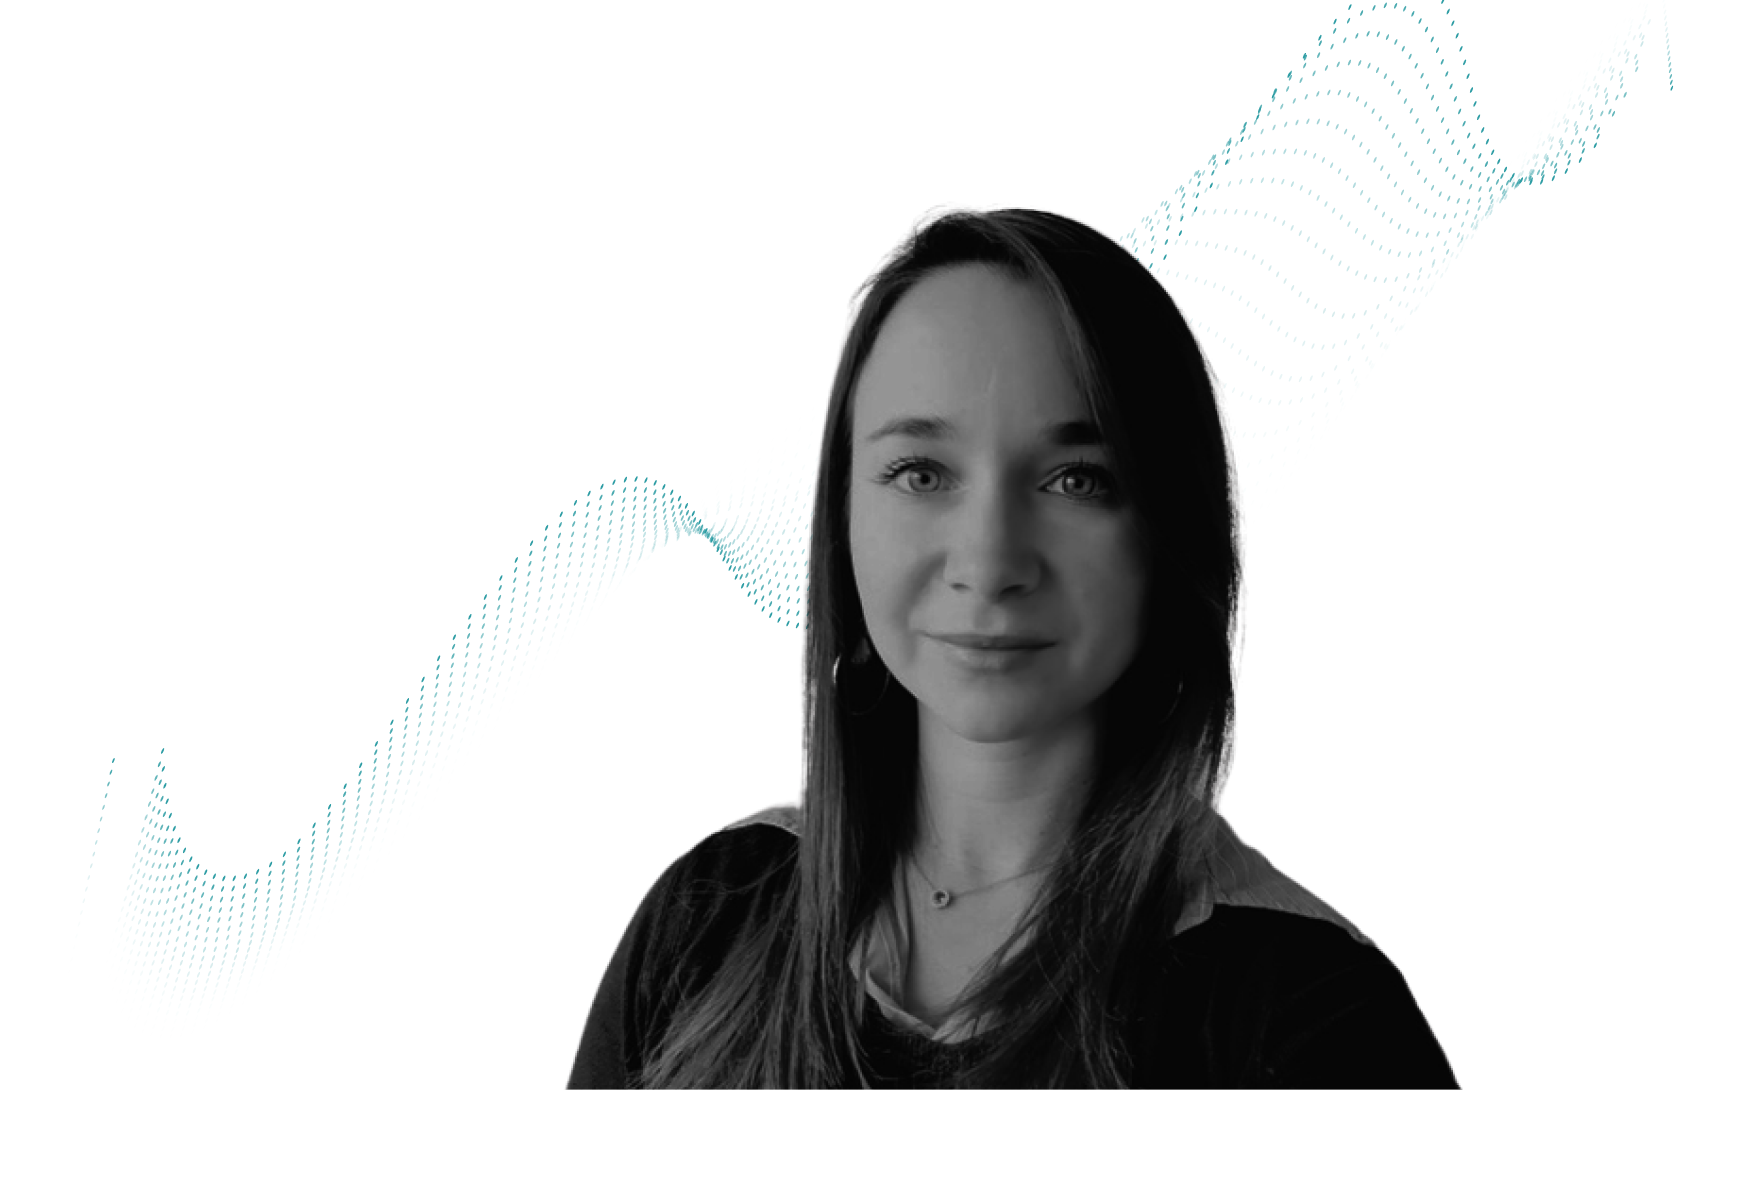
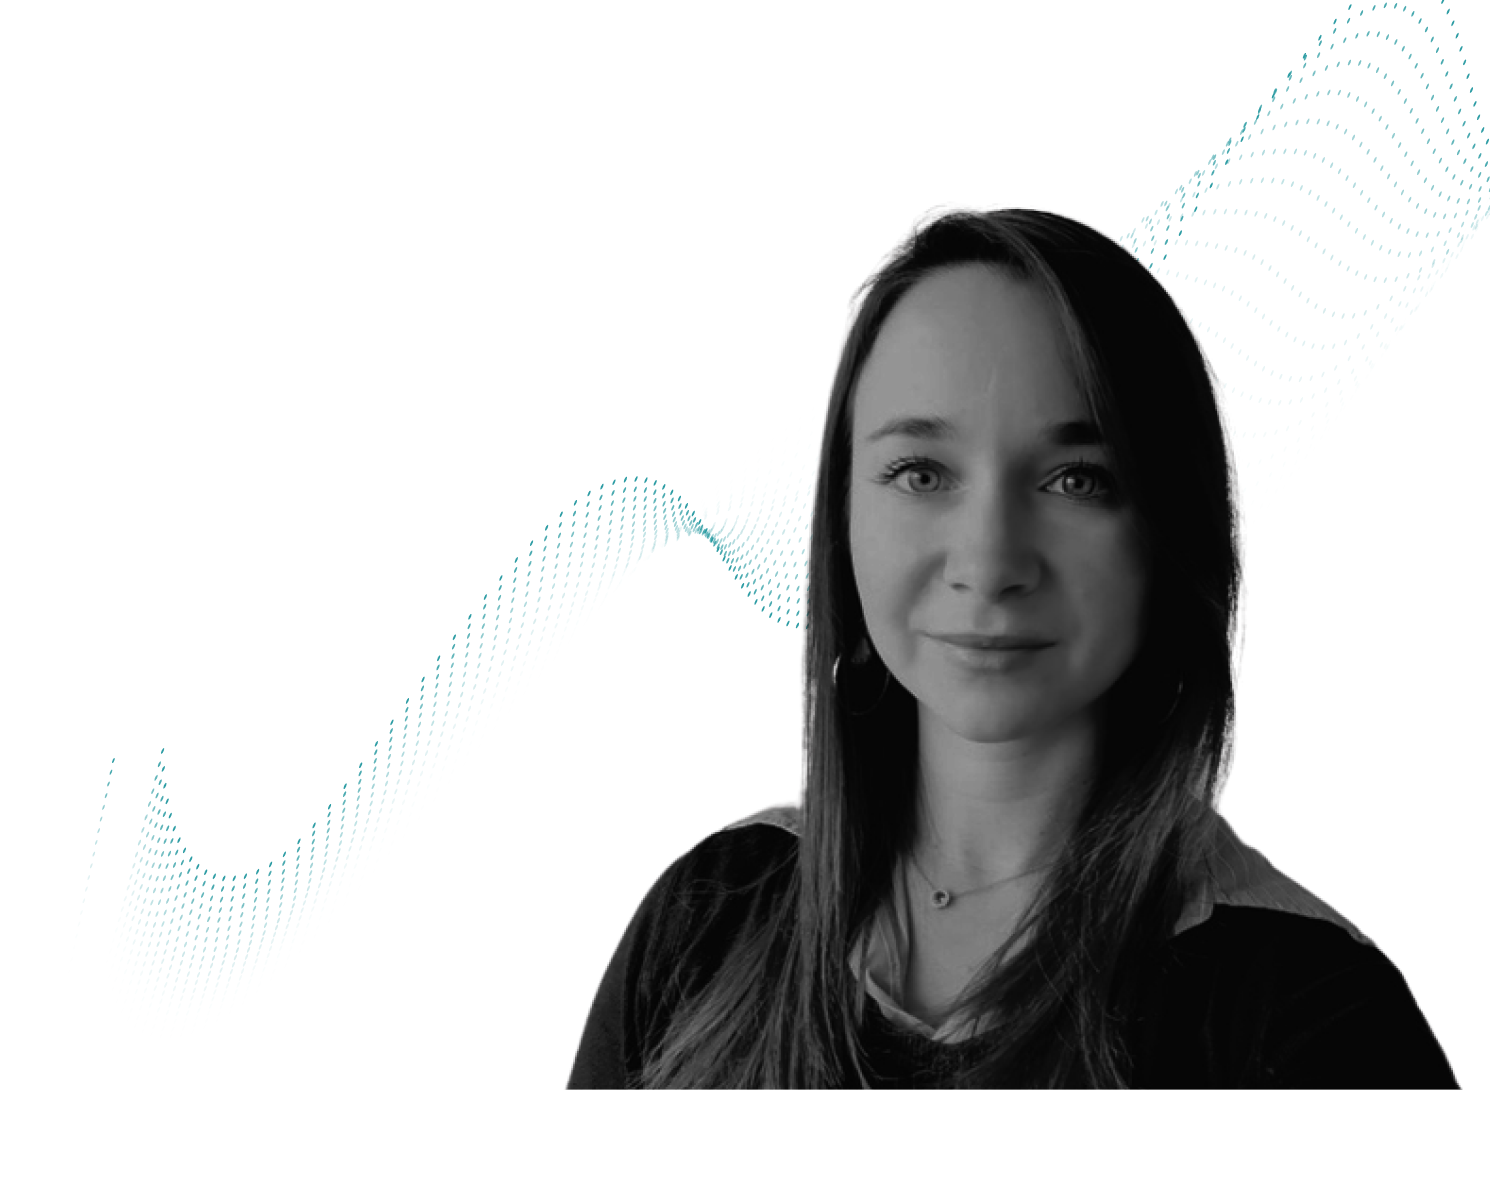
about-me section

diff --git a/index.html b/index.html
@@ -34,9 +34,9 @@
       crossorigin="anonymous"
     ></script>
   </head>
-  <body>
+  <body class="mb-5">
     <div class="hero">
-      <div class="container  hero-title">
+      <div class="container-fluid hero-title">
         <div class="row">
           <div class="col">
             <h2 class="mt-3">Hi, I am</h2>
@@ -49,8 +49,32 @@
               >See my Work <i class="fa-solid fa-arrow-right-long"></i
             ></a>
           </div>
-          <div class="col-6 d-none d-lg-block">
+          <div class="col d-none d-xl-block">
             <img src="images/Group 1.png" />
+          </div>
+        </div>
+      </div>
+    </div>
+    <div class="about-me">
+      <h4 class="mt-5 subheading">Who Am I ?</h4>
+      <h3 class="mb-3">About me</h3>
+      <div class="container">
+        <div class="row">
+          <div class="col-sm-6 mt-5">
+            <img src="images/Group 2.png" width="354px" class="float-none float-sm-end" />
+          </div>
+          <div class="col-md-6 mt-5">
+            <h4 class="mt-2">Front-End Developer</h4>
+            <p class="mt-4 mb-5">
+              Amet minim mollit non deserunt ullamco est sit aliqua dolor do
+              amet sint. Velit officia consequat duis enim velit mollit.
+              Exercitation veniam consequat sunt nostrud amet.
+              Amet minim mollit non deserunt ullamco est sit aliqua dolor do
+              amet sint. Velit officia consequat duis enim velit mollit.
+              Exercitation veniam consequat sunt nostrud amet.
+            </p>
+            <a href="#" class="btn-color me-3">My Work</a> 
+            <a href="#" class="btn-transparent">Contact-me</a>
           </div>
         </div>
       </div>

diff --git a/style.css b/style.css
@@ -21,12 +21,35 @@ h2 {
   margin: 0px !important;
 }
 
+h3 {
+  font-family: "Playfair Display", serif;
+  font-size: 64px;
+  font-weight: 400;
+  text-align: center;
+  margin-top: 0px;
+}
+
+h4 {
+  font-family: "Playfair Display", serif;
+  font-size: 50px;
+  padding-top: 30px
+}
+
+p {
+  opacity: 70%;
+  font-weight: 400;
+  font-size: 16px;
+  line-height: 1.5;
+
+}
+
 .hero {
   background-color: black;
   padding-inline-end: 160px 20px;
   max-height: 546px;
   width: 100%;
 }
+
 .hero a {
   text-decoration: none;
   color: var(--secondary-color);
@@ -41,23 +64,56 @@ h2 {
 }
 
 .hero-title {
-  margin-left: 155px;
   padding: 150px 0px;
+  padding-left: 200px !important;
 }
 
 .hero img {
-  width: 900px;
+  width: 700px;
   position: relative;
-  top: -167px;
+  top: -116px;
   left: -200px;
-  margin-right: 200px;
 }
+
+.subheading {
+  color: var(--secondary-color);
+  font-family: "Playfair Display", serif;
+  font-size: 18px;
+  font-weight: 500;
+  text-align: center;
+  margin-bottom: 5px;
+}
+
+.btn-color{
+    color: white;
+    background: var(--secondary-color);
+    border-radius: 15px;
+    padding: 10px 25px;
+    text-decoration: none;
+    border: 1px solid var(--secondary-color);
+}
+
+.btn-transparent{
+     background: white;
+    color: var(--secondary-color);
+    border-radius: 15px;
+    border: 1px solid var(--secondary-color);
+    padding: 10px 25px;
+    text-decoration: none;
+
+}
+
 
 @media (max-width: 900px) {
   .hero {
     text-align: center;
   }
-  .hero-title{
+  .hero-title {
     padding-top: 80px;
+    padding-left: 0px !important;
+  }
+
+  .about-me{
+      text-align: center;
   }
 }
